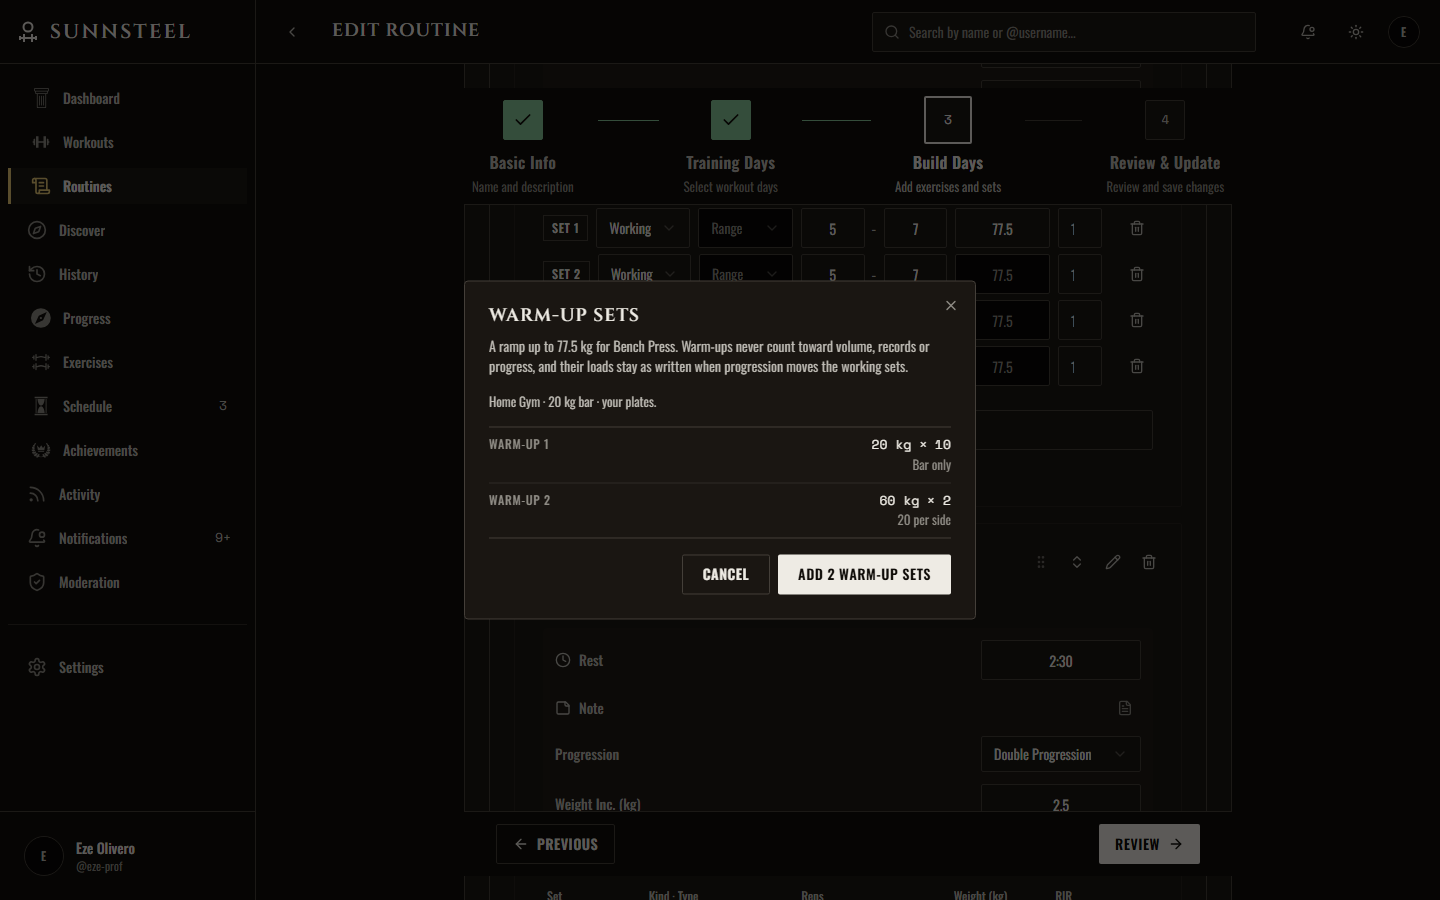
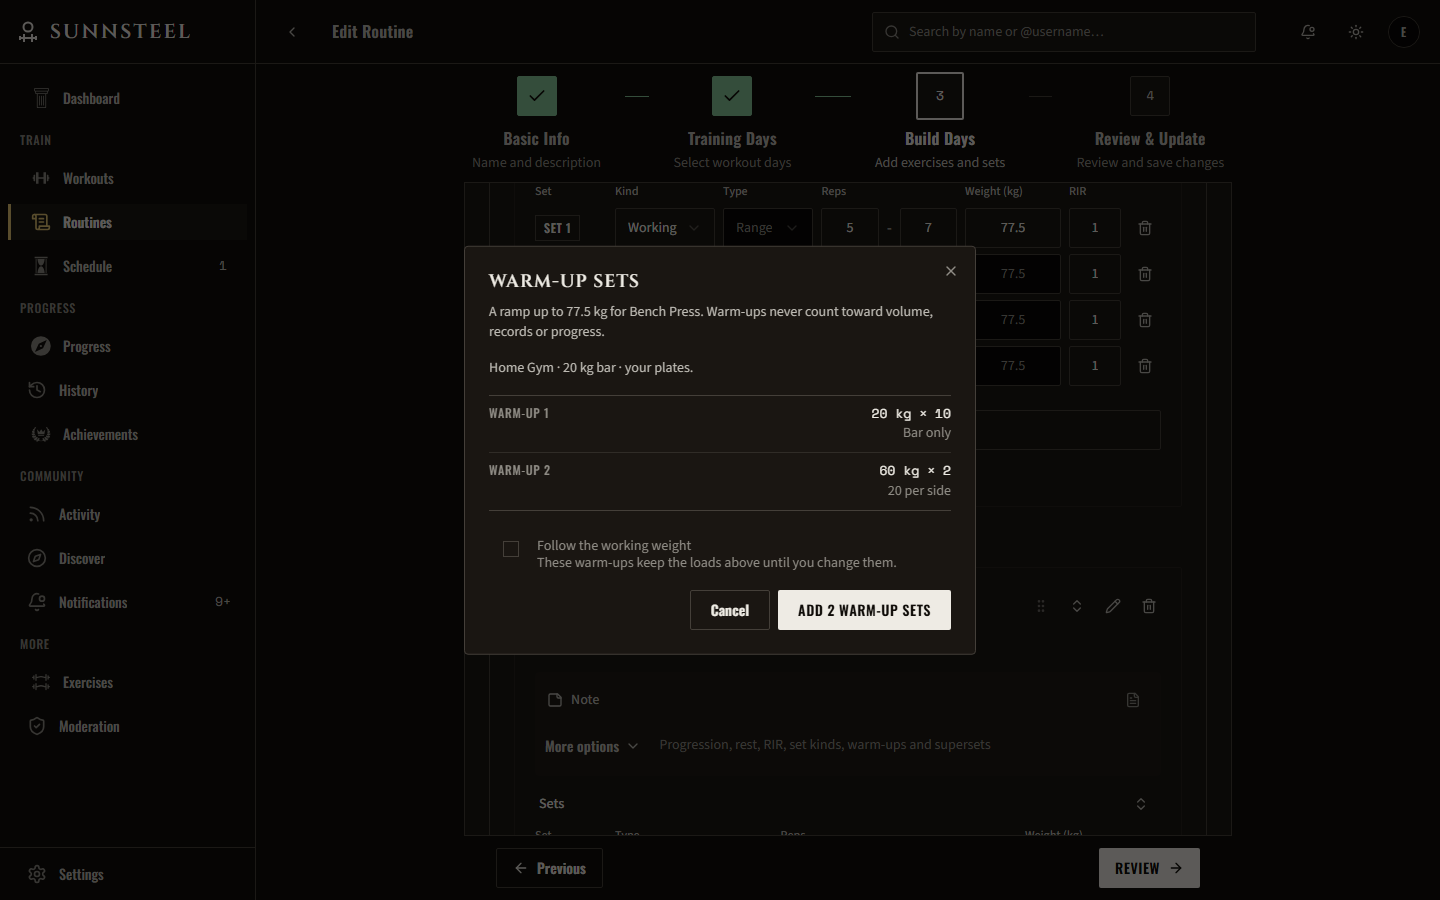
fix(portfolio): land the seven stale targets on their controls again
The v1.1 redesign and the legibility group moved what these setup steps
waited for. Dialogs now portal outside <main>, so dashboard-customize and
routine-deload wait for the dialog in setup and name the page behind it in
`ready`; warm-ups open from the exercise's "More options" (UX-20); card
titles are no longer headings, so the account cards scroll by text; and
the long descriptions behind "How this works" (UX-17) give way to the
summaries that show. Slugs unchanged; the seven frames recaptured.

diff --git a/e2e/portfolio-targets.ts b/e2e/portfolio-targets.ts
@@ -265,8 +265,11 @@ export const PORTFOLIO_TARGETS: PortfolioTarget[] = [
 		features: ['DASH-05', 'PREF-03'],
 		setup: async page => {
 			await page.getByRole('button', { name: 'Customize' }).click()
+			const dialog = page.getByRole('dialog', { name: 'Customize dashboard' })
+			await expect(dialog.getByText('Reset to default')).toBeVisible()
 		},
-		ready: ['Customize dashboard', 'Reset to default'],
+		// The dialog is portalled outside <main>; setup waits for it.
+		ready: ['finished in all', 'of started workouts'],
 		caption:
 			"Choosing the dashboard's order and which sections it shows, saved to the member's account; Today's Workouts always stays first.",
 	},
@@ -293,6 +296,15 @@ export const PORTFOLIO_TARGETS: PortfolioTarget[] = [
 		features: ['LIVE-13', 'LIVE-20'],
 		setup: async page => {
 			await openBuildDaysStep(page)
+			// UX-20: warm-ups sit behind the exercise's "More options".
+			const more = page
+				.getByRole('button', { name: /^More options for / })
+				.first()
+			await expect(more).toBeVisible()
+			await more.click()
+			await expect(
+				page.getByRole('button', { name: /^Fewer options for / }).first(),
+			).toHaveAttribute('aria-expanded', 'true')
 			const add = page
 				.getByRole('button', { name: /^Add warm-up sets to / })
 				.first()
@@ -351,8 +363,11 @@ export const PORTFOLIO_TARGETS: PortfolioTarget[] = [
 		// capture writes nothing.
 		setup: async page => {
 			await page.getByRole('button', { name: 'Plan deload' }).click()
+			const dialog = page.getByRole('dialog', { name: 'Plan a deload' })
+			await expect(dialog.getByText('What changes')).toBeVisible()
 		},
-		ready: ['Plan a deload', 'What changes'],
+		// The dialog is portalled outside <main>; setup waits for it.
+		ready: ['Autumn accumulation', 'Plan deload'],
 		caption:
 			'Planning a deload: a lighter copy of the plan in force, previewed exercise by exercise before it replaces those days.',
 	},
@@ -509,7 +524,13 @@ export const PORTFOLIO_TARGETS: PortfolioTarget[] = [
 					heading.closest('section')?.scrollIntoView({ block: 'center' }),
 				)
 		},
-		ready: ['Training signals', 'They state what changed, not why.'],
+		// UX-17: the intro's last line and the thresholds are behind "How this
+		// works"; the one-line summary is what shows.
+		ready: [
+			'Training signals',
+			'Four measures from your logged workouts',
+			'Effort (RPE)',
+		],
 		caption:
 			'Effort, rep targets, declining lifts and workouts over the last two fortnights, each with its numbers and thresholds and never a cause.',
 	},
@@ -555,7 +576,8 @@ export const PORTFOLIO_TARGETS: PortfolioTarget[] = [
 				.getByRole('heading', { name: 'Training Partners' })
 				.scrollIntoViewIfNeeded()
 		},
-		ready: ['Training Partners', 'A request shares nothing by itself.'],
+		// UX-17: the full description is behind "How this works".
+		ready: ['Training Partners', 'A request shares nothing.'],
 		caption:
 			'Training-partner requests and independent access controls for schedule, progress, activity, routines and encouragement.',
 	},
@@ -564,8 +586,9 @@ export const PORTFOLIO_TARGETS: PortfolioTarget[] = [
 		route: '/settings/account',
 		features: ['EXPORT-01'],
 		setup: async page => {
+			// A card title is not a heading.
 			await page
-				.getByRole('heading', { name: 'Download Your Data' })
+				.getByText('Download Your Data', { exact: true })
 				.scrollIntoViewIfNeeded()
 		},
 		ready: ['Download Your Data', 'Download my data'],
@@ -577,8 +600,9 @@ export const PORTFOLIO_TARGETS: PortfolioTarget[] = [
 		route: '/settings/account',
 		features: ['TRUST-01'],
 		setup: async page => {
+			// A card title is not a heading.
 			await page
-				.getByRole('heading', { name: 'Delete Account' })
+				.getByText('Delete Account', { exact: true })
 				.scrollIntoViewIfNeeded()
 		},
 		ready: ['Delete Account', 'cannot be undone'],
